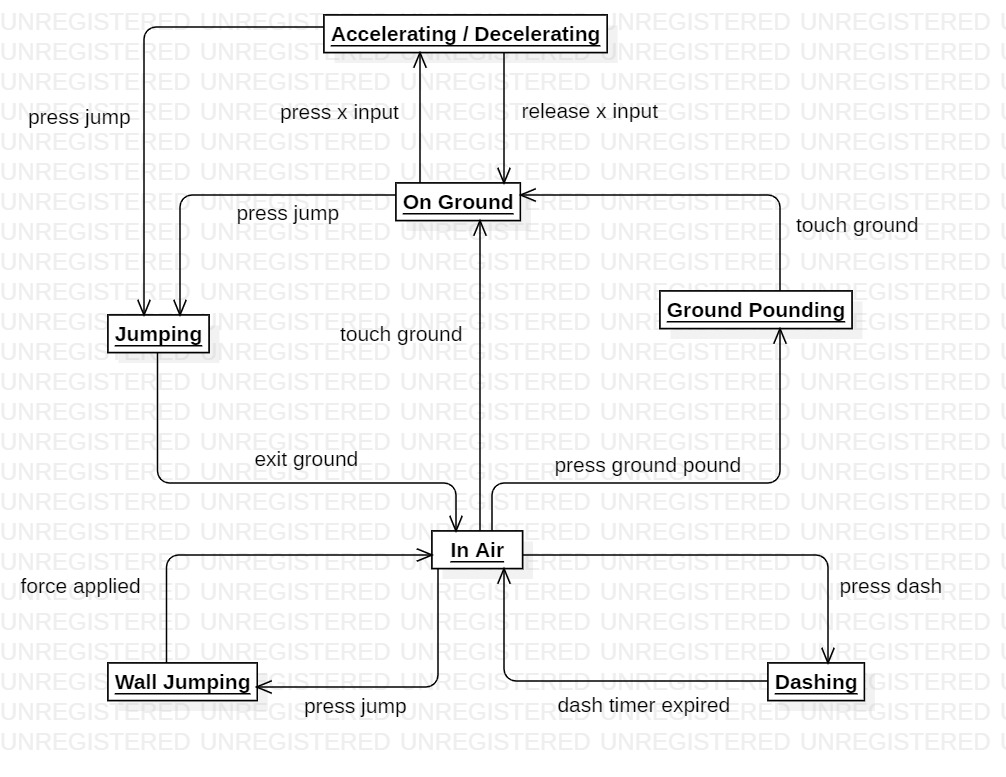
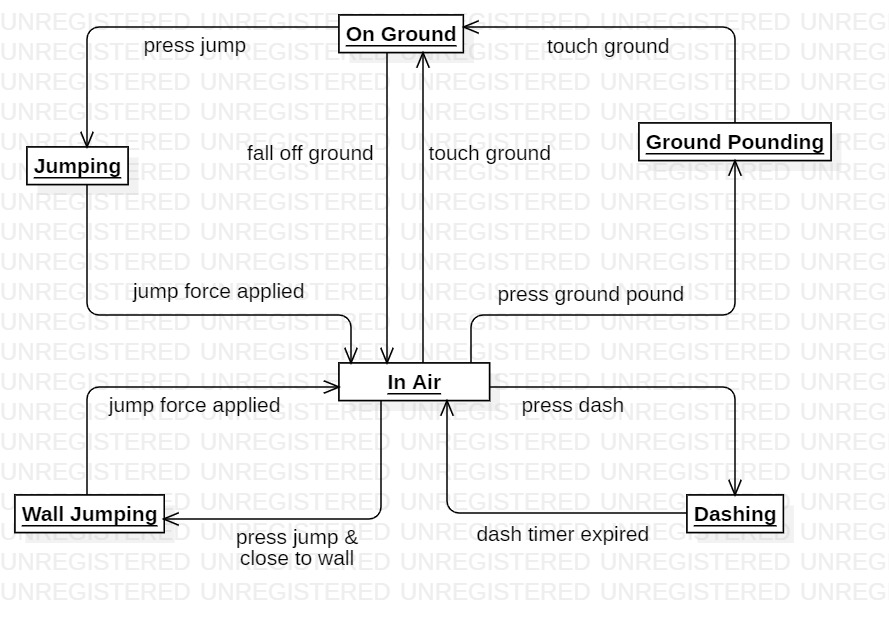
update game design document

diff --git a/Documents/GameDesignDocument.md b/Documents/GameDesignDocument.md
@@ -32,23 +32,13 @@ The levels will be laid out on a map representing the different freezer compartm
 
 **Movement**
 
-The ice cube will move constantly and the player will not be able to stop it or change the direction directly, only to jump. Hitting obstacles such as walls or platforms will result in the ice cube changing direction. It is possible to bounce off everything except the floor. Everytime the ice cube reaches the floor its vertical velocity will be zero.
+The ice cube will move constantly and the player will not be able to stop it or change its direction directly, only to jump, dash or ground pound. Hitting obstacles such as walls or platforms will result in the ice cube changing direction. It is possible to bounce off everything except the floor. Every time the ice cube reaches the floor its vertical velocity will be zero.
 
 The ice cube is affected by gravity and can fall off platforms. Falling off platforms does not damage the ice cube.
 
-The horizontal speed can be affected by:
-1. Interactions with the environment: sliding on a frosty platform will make the cube slower, while sliding on a slippery platform will make the cube faster.
-2. User input: the player can temporarily slow down or accelerate the character within an allowed range of speed.
+The horizontal velocity is fixed and does not change, except for the dash and ground pound moves (see later).
 
-While the player keeps the "accelerate" ("decelerate") input pressed, the ice cube will accelerate (decelerate) at a constant rate until it reaches a fixed "fast (slow) speed" value. When the "accelerate" ("decelerate") input is released, the ice cube will decelerate (accelerate) until it reaches the default speed again. 
-
-In general, the ice cube is always trying to reach or keep a certain fixed horizontal speed which depends on the "accelerate"/"decelerate" input (or absence thereof). The only exception is when using the "ground pound" and "mid-air dash" moves (see later).
-
-Vertical speed is determined by gravity, jump and ground pound input.
-
-**Ground pound**
-
-While mid-air, the player can press the "ground pound" input to make the character quickly fall down to the ground. Horizontal velocity is temporarily set to zero as the character begins falling down, then resumes in the previous direction once the player hits the ground. If the player presses the input "ground pound", all other input is suspended until the character reaches the ground.
+Vertical velocity is determined by gravity, jump and ground pound input.
 
 **Jump** 
 
@@ -63,11 +53,15 @@ While the player is in the air, the following actions are allowed:
 2. Mid-air dash
 3. Ground pound
 
+**Ground pound**
+
+While mid-air, the player can press the "ground pound" input to make the character quickly fall down to the ground. Horizontal velocity is temporarily set to zero as the character begins falling down, then resumes in the previous direction once the player hits the ground. If the player presses the input "ground pound", all other input is suspended until the character reaches the ground. Horizontal position is frozen until the character reaches the ground, the character moves perfectly vertically during ground pound.
+
 **Mid-air dash**
 
-While the character is in the air, the player can perform a mid-air dash. Vertical velocity is set to 0 as well as gravity and the character receives an impulse in the current direction (the player cannot choose in which direction to dash). The characters moves horizontally at a fixed and constant speed (determined by the initial impulse) for a fixed amount of time which does not depend on player input. At the end of the dash, gravity begins to function as normal again and the default speed is restored.
+While the character is in the air, the player can perform a dash. Vertical velocity is set to 0 as well as gravity and the character receives an impulse in the current direction (the player cannot choose in which direction to dash). The characters moves horizontally at a fixed and constant speed (determined by the initial impulse) for a fixed amount of time which does not depend on player input. At the end of the dash, gravity begins to function as normal again and the default speed is restored.
 
-The player is not allowed to dash while the ground pound action is executing.
+The player is not allowed to dash while the ground pound action is executing. The player is not allowed to dash while touching the ground.
 
 **Recap**
 
@@ -78,22 +72,25 @@ The following commands are allowed:
 4. slow down
 5. mid-air dash
 
-**Input mapping**
+There are two input mappings.
+1. First input mapping:
+    - C: jump
+    - X: ground pound
+    - Z: dash
+2. Second input mapping:
+    - space bar or left mouse click: jump
+    - : ground pound
+    - : dash
 
-- W: jump
-- A: left; accelerate when the current direction of the character is left, decelerate if the current direction is right
-- D: right; accelerate when the current direction of the character is right, decelerate if the current direction is left
-- S: ground pound
-- Q: mid-air dash
+Both input mappings are active at any moment since they do not interfere with each other.
 
 The following diagram represents the states finite state machine. (x input is the horizontal input)
 
 ![image](Diagrams/IceCubeInputFSA.jpg)
 
-**Other decisions**
+### World ###
 
-- The ice cube will not rotate
-- There are no slopes in the world
+The world around the ice cube represents the inside of a freezer. All elements and collisions are perfectly horizontal or vertical with only 90 degrees angles. There are no slopes in the world.
 
 ### Gameplay elements ###
 
@@ -107,20 +104,12 @@ Grid elements (all of these elements are static):
 All of these elements can be placed on the floor of the level but also mid-air with nothing supporting them (there is no regard to gravity in this sense).
 
 Stand-alone elements:
-1. Rolling / moving obstacles, such as rolling bottles / ice cream tubs, moving ice cubes,...: the ice cube will die if it collides directly with them. They move following gravity rules and will fall to the ground.
-2. Fans: fans will produce wind, which will affect the speed and direction of the ice cube by applying a force to the ice cube. If the force of the fan is strong enough to contrast the acceleration of the ice cube, it can change its direction.
-3. Breakable platforms
-    1. that break after the ice cube passes on them once
-    2. that break if the ice cube ground pounds or dashes on them
-4. Collectibles: every level will contain 3 collectible objects away from the main path
-5. Enemies: some levels will contain enemies in the form of other ice cubes. Enemies will be able to shoot ice shards or fire balls at the character, and additionally cause the player to die if it collides directly with them.
-6. Projectiles: some levels will contain projectiles, spawned either by enemies or other static parts of the environment. The projectiles may either have a straight trajectory or follow the laws of gravity.
-
-Other mechanics:
-1. Stack on other ice cubes: the ice cube can stack with other ice cubes inside the freezer by jumping on top of them
-    1. hit platforms or other obstacles to get rid of the additional ice cubes
-    2. double jump by separating the rest of the “body” made of ice cubes
-    3. if the player lands on spikes, only the ice cube at the bottom gets shattered
+1. Rolling / moving obstacles, such as rolling bottles / ice cream tubs, moving ice cubes,...: the ice cube will die if it collides directly with them. They move following gravity rules and will fall to the ground. Some obstacles may have a specific trigger so they start moving only when the player collides with the trigger.
+2. Fans: fans will produce wind, which will affect the speed and direction of the ice cube by applying a force to the ice cube. Fans should only be placed so that the force is vertical, so they will not affect the horizontal speed of the cube and will not change its direction.
+3. Breakable platforms: platforms that break if the ice cube dashes or ground pounds on them (to be discussed)
+4. Enemies: some levels will contain enemies in the form of other ice cubes. Enemies will be able to shoot ice shards or fire balls at the character, and additionally cause the player to die if it collides directly with them. (to be discussed)
+5. Projectiles: some levels will contain projectiles, spawned either by enemies or other static parts of the environment. The projectiles may either have a straight trajectory or follow the laws of gravity.
+6. Movable objects: these objects do not perform any action. The player can move them around using the cube, for example to place them on spikes to be able to pass them.
 
 To be discussed:
 1. Fans: should the force be the same in the entire force field or be modulated depending on how close you get to the fan?
@@ -131,10 +120,11 @@ To be discussed:
 The ice cube shatters and dies if:
 1. It falls off a bottomless pit
 2. It collides directly with non-allowed elements: spikes, obstacles, enemies, projectiles,...
+3. It stays in contact with a heated platform more than the allowed time.
 
 After death the ice cube restarts at the nearest check-point.
 
-### Game Flow ###
+### Game Flow and level structure ###
 
 The game is made up of multiple short levels, which are organised in sections. Each section represents a freezer compartment and has a different theme: vegetables, ice creams, pizza,...
 
@@ -144,7 +134,25 @@ To be discussed: order of introduction of additional elements
 
 Levels must be completed sequentially (it is necessary to complete a level to be able to access the following ones). The player can select which level to play from a level map and can select to replay a previously completed level.
 
-Each level will contain multiple check-points, so that the player does not have to repeat previously completed sequences.
+The camera is not static and moves around following the player. Levels are mainly side-scrolling to the right but they can also have vertical sequences (both going upwards and downwards) and side scrolling in the opposite direction to give the player the sense of moving in a coherent map. 
+
+**Checkpoints**
+
+Each level is contained in a single scene and can contain up to 3/4 checkpoints. 
+- When the player dies, the scene will reload and the character will be spawned at the position of the last completed checkpoint. Previously modified aspects of the level (broken platforms, moved objects,...) will reset with the death of the character. 
+- Checkpoint completion is automatic when the character collides with the corresponding trigger and does not need any action on the player's part.
+- Completing a checkpoint does not change anything about the world and does not prevent the player from going back to previous sections of the level. 
+- Checkpoints are not saved between different runs of the game, if the player closes the game the checkpoint progress is lost.
+
+**Bonus levels**
+
+Each world will contain a bonus level at the end. It will not be necessary to complete the bonus level to progress in the game, it is just an additional and optional challenge. 
+
+Bonus levels contain a certain number of collectibles on the main path. The goal of the bonus level is to progress as far as possible and finally collect all of them. Partial progress will be saved between runs (for example the level selection screen will show that the player has collected 5 out of 10 collectibles). The bonus levels contain no checkpoints. 
+
+Bonus levels are meant to be very fast and very challenging, with mainly horizontal scrolling to the right. The character may have different parameters than the normal levels, for example higher speed, higher jumps, faster dash and ground pound. This is to make the level more challenging and force the player to react fast.
+
+The aesthetic of the bonus levels will be completely different from the rest of the freezer, with only colored neon outlines and silhouettes. In the logic of the game, this could represent a black-out in the freezer where the light goes completely dark. 
 
 ## Deadlines ##
 
@@ -197,6 +205,7 @@ The ice cube GameObject should have the following components:
 5. Animator
 6. SpriteRenderer
 7. IceCubeStateManager script, with the same IceCubeParameters as the IceCubeInput script (TODO: find a fix for this)
+8. "Player" tag (this is necessary for death zones to work)
 
 
 ### Tilemaps ###
